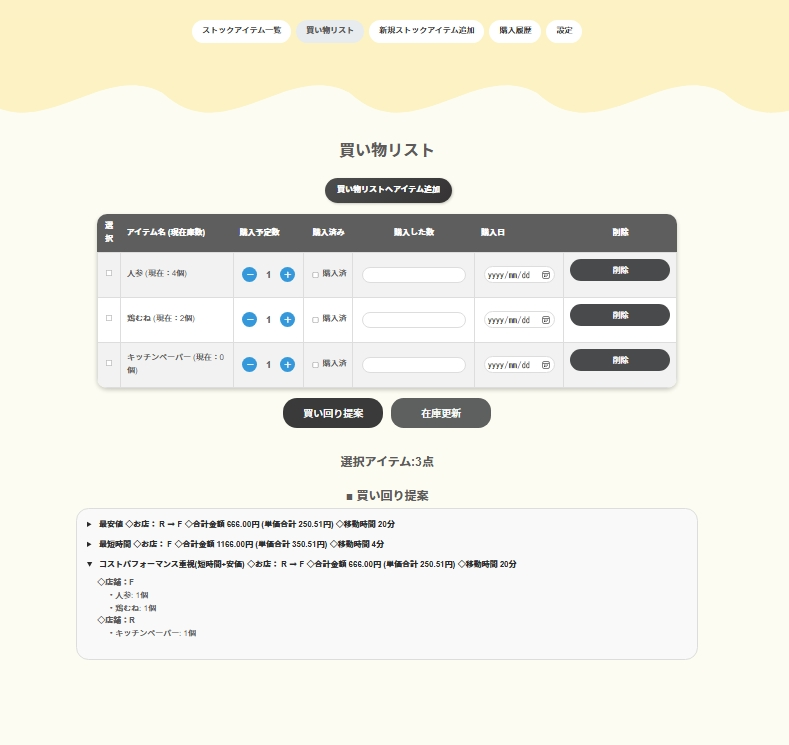
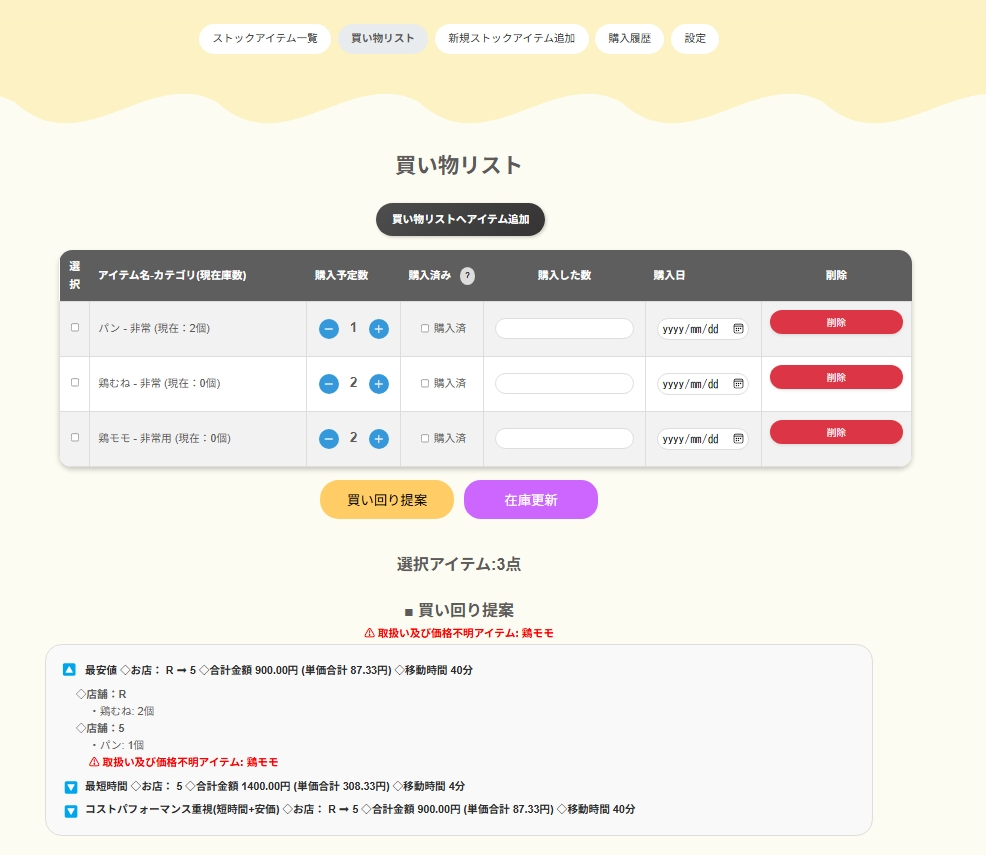
指摘修正後画像変更

diff --git a/stock_item/App/templates/base.html b/stock_item/App/templates/base.html
@@ -9,7 +9,7 @@
     <link rel="stylesheet" href="{% static 'css/styles.css' %}">
 </head>
 <body>
-    <header class="wave-header">
+    <header id="main-header" class="wave-header">
         <nav class="navigation">
             <ul>
                 <li>
@@ -73,9 +73,24 @@
             </div>
         </div>
     </header>
-    <div class="content">
+    <div class="content main-content">
         {% block content %}
         {% endblock %}
     </div>
 </body>
+<script>
+    function adjustContentMargin() {
+        const header = document.getElementById("main-header");
+        const content = document.querySelector(".main-content");
+        if (header && content) {
+            const headerHeight = header.offsetHeight;
+            content.style.setProperty("margin-top", headerHeight + "px", "important");
+        }
+    }
+
+    window.addEventListener("load", adjustContentMargin);
+    window.addEventListener("resize", adjustContentMargin);
+</script>
+
+
 </html>

diff --git a/stock_item/static/css/styles.css b/stock_item/static/css/styles.css
@@ -14,7 +14,7 @@ h1, h2 {
 }
 
 h1 {
-    margin-top: 150px;
+    /* margin-top: 150px; */
     text-align: center;
     font-size: 2rem;
     padding-bottom: 10px; /* 下線を削除 */
@@ -32,6 +32,10 @@ textarea.auto-expand-textarea {
     box-sizing: border-box !important;
     height: auto !important;
     min-height: 32px;
+}
+
+.main-content {
+    padding-top: 110px;
 }
 
 p {
@@ -326,9 +330,7 @@ button.increment:hover {
     z-index: 1;
 }
 
-.content {
-    margin-top: 100px; /* 波線と見出しの間隔を広げる */
-}
+
 
 /* PC用波線のデザイン */
 .u-pc {

diff --git a/stock_item/App/templates/login.html b/stock_item/App/templates/login.html
@@ -10,7 +10,7 @@
 <body>
     <div class="login-container">
         <div class="login-box">
-            <h1>ライフストック管理</h1>
+            <h2 style="text-align: center;">ライフストック管理</h2>
             <form method="post">
                 {% csrf_token %}
                 <div>メールアドレス <input type="email" name="email"></div>

diff --git a/stock_item/App/templates/signup.html b/stock_item/App/templates/signup.html
@@ -9,7 +9,7 @@
 <body>
     <div class="login-container">
         <div class="login-box">
-            <h1>新規アカウント登録</h1>
+            <h2 style="text-align: center;">新規アカウント登録</h2>
             <form method="post">
                 {% csrf_token %}
     
